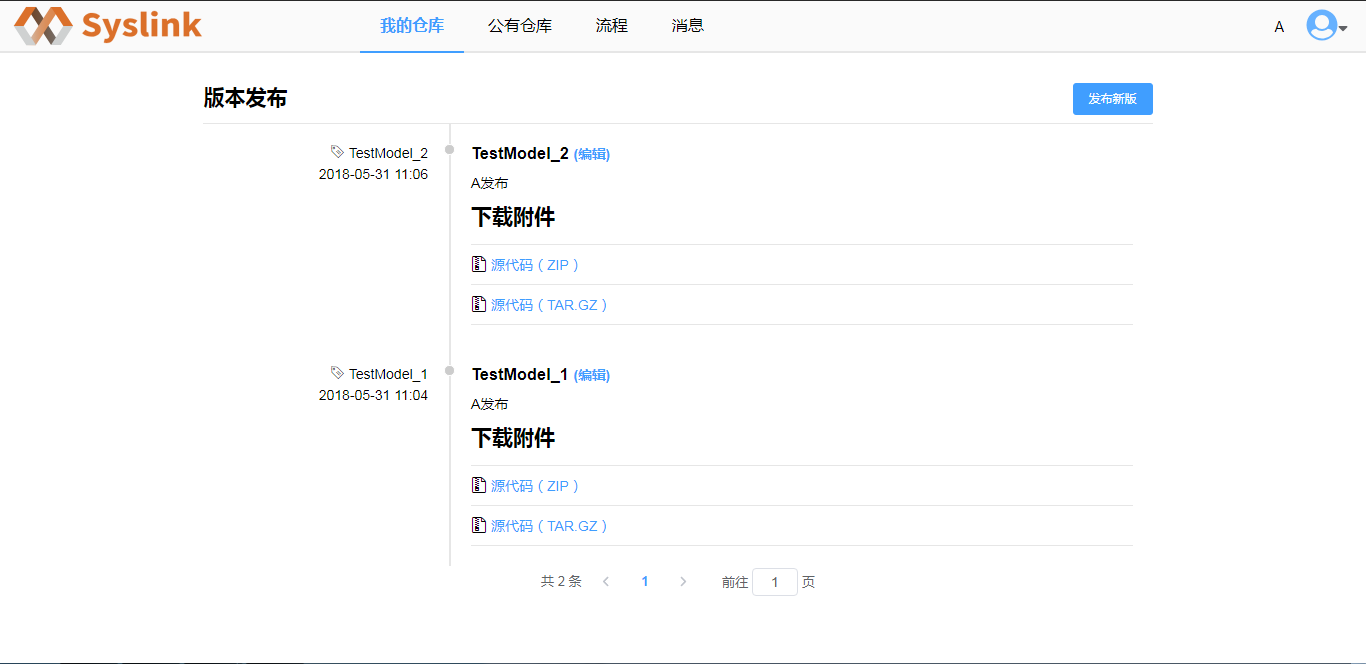
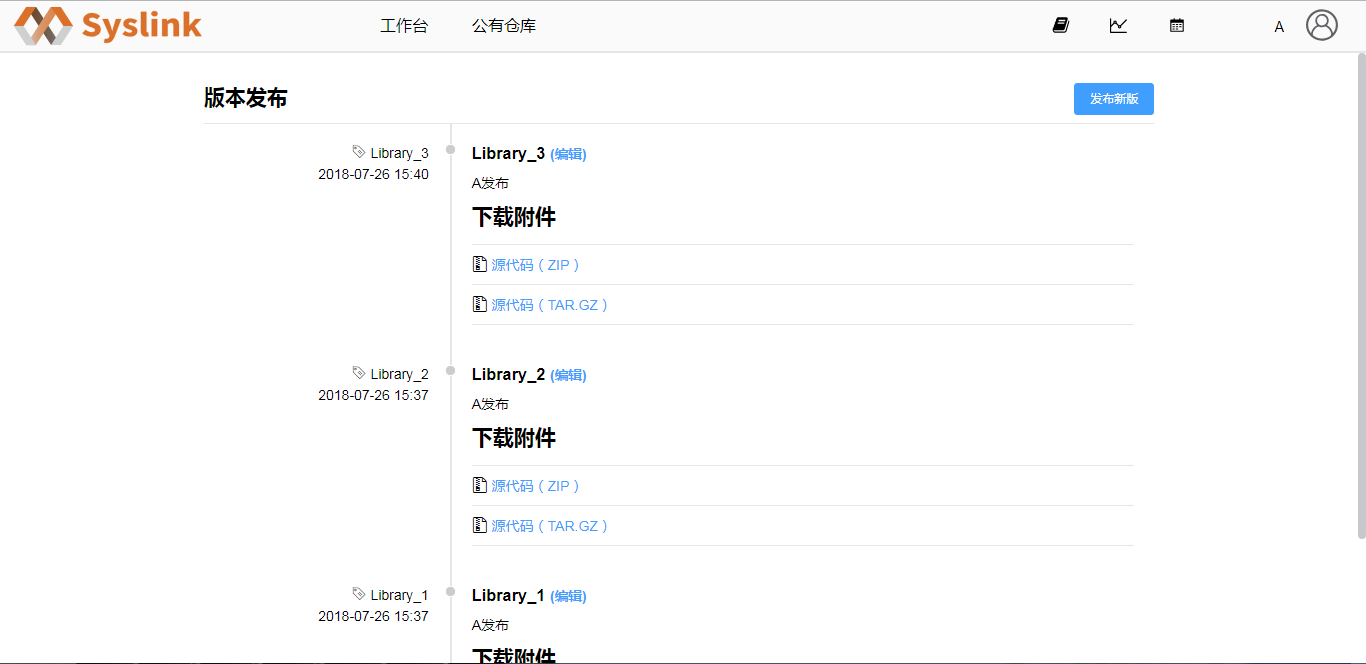
GitBook: [master] 4 pages and 13 assets modified

diff --git a/kuai-su-ru-men/shen-qian-guan-li/fa-bu-cang-ku/README.md b/kuai-su-ru-men/shen-qian-guan-li/fa-bu-cang-ku/README.md
@@ -1,19 +1,31 @@
 ---
 description: >-
-  用户将私有仓库发布至公有仓库，即根据默认模板进入审批流程。这里以用户A发布仓库“TestModel”至公有仓库为例，这里仓库“TestModel”内容为非空，否则发布失败。
+  用户将私有仓库发布至公有仓库，即根据默认审签模板进入审批流程。这里以用户A发布仓库“Library”至公有仓库为例，仓库“Library”的内容不为空，否则发布失败。
 ---
 
 # 发布仓库
 
-在“我的仓库”页面选中仓库“TestModel”，点击“发布”按钮，弹出“发布模型至公有仓库”对话框。
+在用户A “我的仓库”页面，切换至列表视图。
 
-![&#x201C;&#x53D1;&#x5E03;&#x6A21;&#x578B;&#x81F3;&#x4E0B;&#x5217;&#x6240;&#x9009;&#x6A21;&#x578B;&#x5206;&#x7C7B;&#x201D;](../../../.gitbook/assets/fa-bu-cang-ku-2.png)
+![&#x201C;&#x6211;&#x7684;&#x4ED3;&#x5E93;&#x201D;&#x9875;&#x9762;](../../../.gitbook/assets/fa-bu-cang-ku-1.png)
 
-选中一公有仓库分类如“Modelica模型”，点击“确定”按钮，接着点击“流程”菜单，点击左侧“我的流程→我的提交”项，可以在右侧查看当前用户提交的审批流程信息。
+选中仓库“Library”，接着点击“操作”列中的“发布”按钮，弹出“发布模型”对话框。
 
-![&#x6211;&#x7684;&#x63D0;&#x4EA4;](../../../.gitbook/assets/fa-bu-cang-ku-3.png)
+![&#x201C;&#x53D1;&#x5E03;&#x6A21;&#x578B;&#x201D;&#x5BF9;&#x8BDD;&#x6846;](../../../.gitbook/assets/fa-bu-cang-ku-2.png)
 
-审核通过后，在“公有仓库”页面的“Modelica模型”分类下可以看到发布的仓库“TestModel”。
+展开“公有仓库”节点，接着选中一公有仓库分类如“基础库”。
 
-![&#x53D1;&#x5E03;&#x4ED3;&#x5E93;](../../../.gitbook/assets/fa-bu-cang-ku-4.png)
+![&#x9009;&#x4E2D;&#x4E00;&#x516C;&#x6709;&#x4ED3;&#x5E93;&#x5206;&#x7C7B;](../../../.gitbook/assets/fa-bu-cang-ku-3.png)
+
+点击“确定”按钮，接着点击右上方的“任务”按钮，进入“任务中心”页面，当前为“我的待办”页面。
+
+![&#x201C;&#x6211;&#x7684;&#x5F85;&#x529E;&#x201D;&#x9875;&#x9762;](../../../.gitbook/assets/fa-bu-cang-ku-4%20%281%29.png)
+
+点击左侧“我的提交”项，可以在右侧查看当前用户提交的审批流程信息。
+
+![&#x6211;&#x7684;&#x63D0;&#x4EA4;](../../../.gitbook/assets/fa-bu-cang-ku-5.png)
+
+审核通过后，在“公有仓库”页面的“基础库”分类下可以看到发布的仓库“Library”。
+
+![&#x53D1;&#x5E03;&#x4ED3;&#x5E93;](../../../.gitbook/assets/fa-bu-cang-ku-6.png)
 

diff --git a/kuai-su-ru-men/shen-qian-guan-li/liu-cheng-shen-pi.md b/kuai-su-ru-men/shen-qian-guan-li/liu-cheng-shen-pi.md
@@ -1,14 +1,6 @@
 # 流程撤销
 
-用户发起审签流程后，点击“我的待办”项，进入“我的待办”页面。
+用户发起审签流程后，在“我的提交”页面中选中一状态为“审签中”的流程，接着点击“撤销流程”按钮，将选中的流程撤销。
 
-![&#x6211;&#x7684;&#x5F85;&#x529E;](../../.gitbook/assets/liu-cheng-che-xiao-1.png)
-
-接着切换至“审签中的流程”页面，选中一流程后点击“操作”列对应的“撤销流程”按钮，将选中的流程撤销。
-
-![&#x5BA1;&#x6838;&#x4E2D;&#x7684;&#x6D41;&#x7A0B;](../../.gitbook/assets/liu-cheng-che-xiao-2.png)
-
-用户也可以在“我的提交”页面中选中一状态为“审签中”的流程，接着点击“操作”列对应的“撤销流程”按钮，将选中的流程撤销。
-
-![&#x64A4;&#x9500;&#x6D41;&#x7A0B;](../../.gitbook/assets/liu-cheng-che-xiao-3.png)
+![&#x64A4;&#x9500;&#x6D41;&#x7A0B;](../../.gitbook/assets/liu-cheng-che-xiao-1%20%281%29.png)
 

diff --git a/kuai-su-ru-men/shen-qian-guan-li/liu-cheng-che-xiao.md b/kuai-su-ru-men/shen-qian-guan-li/liu-cheng-che-xiao.md
@@ -1,6 +1,6 @@
 # 流程审批
 
-审核者登录SysLink系统后，点击“流程”菜单，进入流程管理页面，右侧当前显示待审核的流程。
+审核者登录SysLink web端后，点击右侧“我的任务”或者右上方的“任务”按钮，进入“任务中心”页面。当前为“我的待办”页面，在右侧查看当前用户待审核的流程。
 
 ![&#x67E5;&#x770B;&#x5BA1;&#x6838;&#x6D41;&#x7A0B;](../../.gitbook/assets/liu-cheng-shen-pi-1.png)
 
